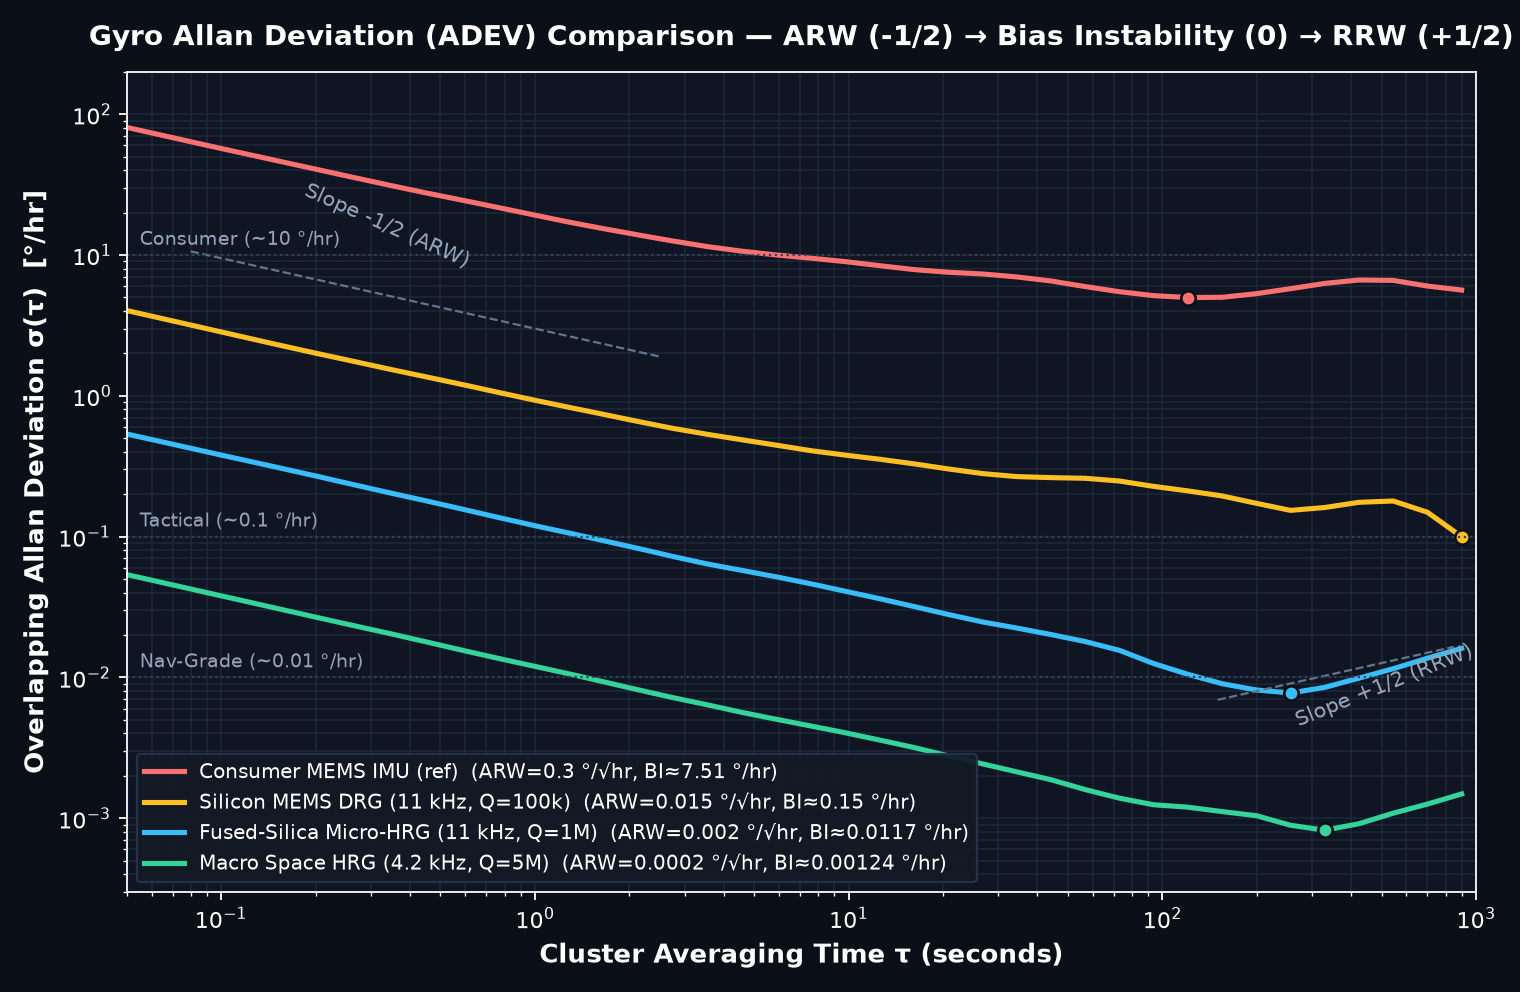
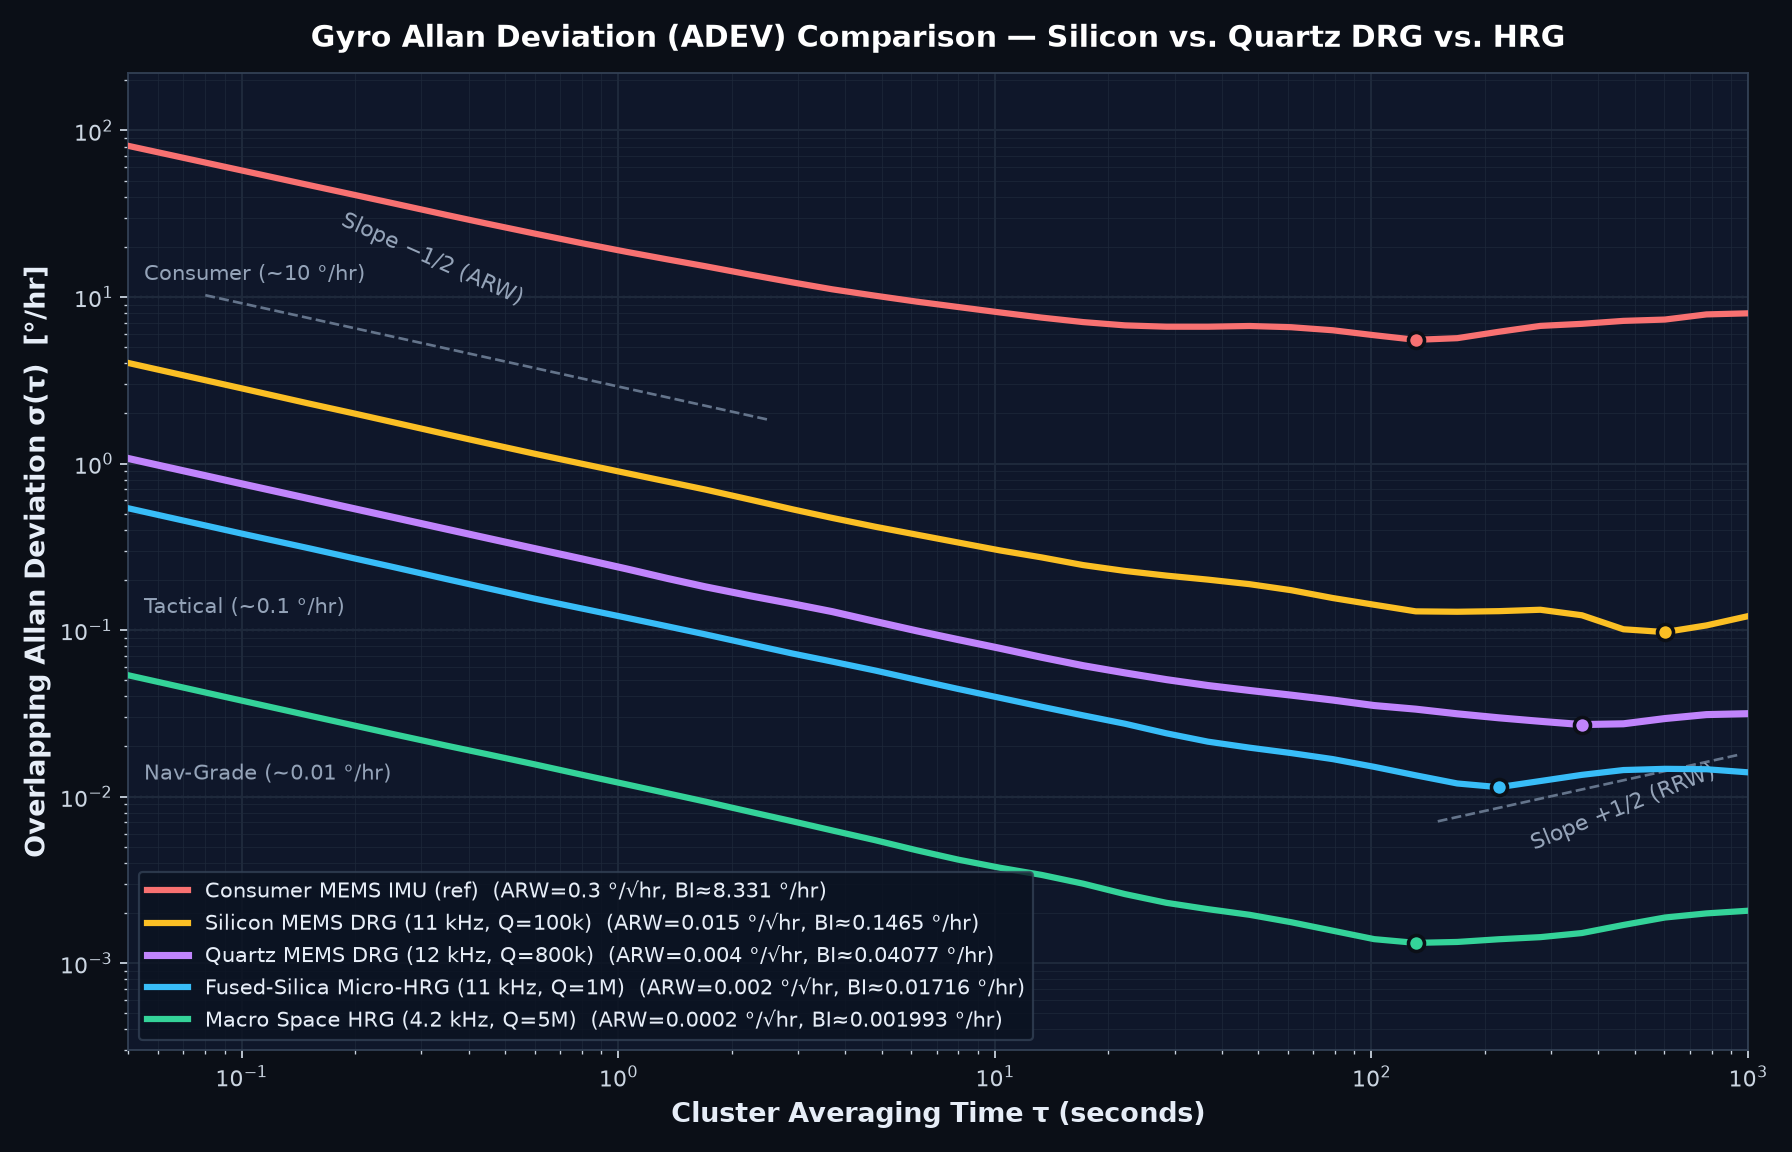
Add Quartz MEMS DRG (12 kHz, Q=800k) preset and ADEV bathtub comparison

diff --git a/studies/gyro_land_summary.html b/studies/gyro_land_summary.html
@@ -204,15 +204,16 @@
   </section>
 
   <section>
-    <h2><span class="badge purple">4 Presets</span> Calibrated CVG Suite</h2>
+    <h2><span class="badge purple">5 Presets</span> Calibrated CVG Suite</h2>
     <div class="tbl-wrap">
       <table>
         <thead>
-          <tr><th>Gyro Preset</th><th>f<sub>0</sub></th><th>Q Factor</th><th>TCF</th><th>Quad</th><th>Live v2 Silicon Result</th></tr>
+          <tr><th>Gyro Preset</th><th>f<sub>0</sub></th><th>Q Factor</th><th>TCF</th><th>Quad</th><th>Result / Notes</th></tr>
         </thead>
         <tbody>
           <tr><td><strong>Silicon MEMS DRG</strong></td><td>11.0 kHz</td><td>100k</td><td>&minus;30 ppm/°C</td><td>120 °/s</td><td class="ok">+0.10% err · 229 dB · 0.027 °/hr floor</td></tr>
-          <tr><td><strong>SiC MEMS DRG</strong></td><td>18.0 kHz</td><td>500k</td><td>&minus;15 ppm/°C</td><td>60 °/s</td><td>Python preset ready (2&times; stiffer)</td></tr>
+          <tr><td><strong>SiC MEMS DRG</strong></td><td>18.0 kHz</td><td>500k</td><td>&minus;15 ppm/°C</td><td>60 °/s</td><td>Python preset (2&times; stiffer, low TED)</td></tr>
+          <tr><td><strong>Quartz MEMS DRG</strong></td><td>12.0 kHz</td><td>800k</td><td>&minus;4 ppm/°C</td><td>40 °/s</td><td class="ok">8&times; higher Q vs Si · BI &approx; 0.035 °/hr</td></tr>
           <tr><td><strong>Micro-HRG (SiO<sub>2</sub>)</strong></td><td>11.0 kHz</td><td>1,000k</td><td>+80 ppm/°C</td><td>30 °/s</td><td class="ok">+0.05% err · 215 dB · 0.03 °/hr ripple</td></tr>
           <tr><td><strong>Space HRG (30 mm)</strong></td><td>4.2 kHz</td><td>5,000k</td><td>+80 ppm/°C</td><td>10 °/s</td><td class="ok">+0.05% err · 205 dB · 0.0005 °/s resolved</td></tr>
         </tbody>

diff --git a/studies/index.html b/studies/index.html
@@ -66,7 +66,7 @@
   <a class="card" href="adev_presets_comparison.png">
     <div class="tag">Noise &amp; Stability · Plot</div>
     <h2>Gyro ADEV Comparison (°/hr)</h2>
-    <p class="desc">Overlapping Allan Deviation bathtub curves across Consumer MEMS, Silicon DRG (Q=100k), Micro-HRG (Q=1M), and Space HRG (Q=5M).</p>
+    <p class="desc">Overlapping Allan Deviation bathtub curves across Consumer MEMS, Silicon DRG (Q=100k), Quartz MEMS DRG (Q=800k), Micro-HRG (Q=1M), and Space HRG (Q=5M).</p>
   </a>
 
   <a class="card" href="fpga_fixed_point_vs_float64.html">

diff --git a/model/plot_adev_comparison.py b/model/plot_adev_comparison.py
@@ -1,0 +1,174 @@
+#!/usr/bin/env python3
+"""Generate dark-theme Overlapping Allan Deviation (ADEV) comparison across gyro classes.
+
+Compares 5 calibrated gyro architectures across 4+ decades of averaging time tau:
+  1. Consumer MEMS IMU (ref)                (ARW = 0.30   deg/rt-hr, BI ~ 7.5   deg/hr)
+  2. Silicon MEMS DRG (11 kHz, Q=100k)      (ARW = 0.015  deg/rt-hr, BI ~ 0.15  deg/hr)
+  3. Quartz MEMS DRG  (12 kHz, Q=800k)      (ARW = 0.004  deg/rt-hr, BI ~ 0.035 deg/hr)
+  4. Fused-Silica Micro-HRG (11 kHz, Q=1M)  (ARW = 0.002  deg/rt-hr, BI ~ 0.012 deg/hr)
+  5. Macro Space HRG  (4.2 kHz, Q=5M)       (ARW = 0.0002 deg/rt-hr, BI ~ 0.0012 deg/hr)
+"""
+
+from __future__ import annotations
+import math
+from pathlib import Path
+import numpy as np
+import matplotlib
+matplotlib.use("Agg")
+import matplotlib.pyplot as plt
+
+from model.mems_gyro_model import allan_deviation
+
+
+def synthesize_pink_noise(rng: np.random.Generator, n: int) -> np.ndarray:
+    """5-stage cascaded 1/f flicker generator spanning 4+ decades (unit RMS)."""
+    w = rng.standard_normal(n)
+    out = np.zeros(n)
+    poles = [0.9997, 0.997, 0.985, 0.92, 0.70]
+    gains = [0.18, 0.22, 0.26, 0.30, 0.35]
+    for p, g in zip(poles, gains):
+        y = 0.0
+        buf = np.empty(n)
+        a = 1.0 - p
+        for i in range(n):
+            y = p * y + a * w[i]
+            buf[i] = y
+        out += g * buf / max(float(np.std(buf)), 1e-12)
+    return out / max(float(np.std(out)), 1e-12)
+
+
+def generate_adev_curve(
+    arw_deg_rt_hr: float,
+    bi_dph: float,
+    rrw_dph_rt_hr: float,
+    fs_hz: float = 20.0,
+    dur_s: float = 4000.0,
+    seed: int = 100,
+) -> tuple[np.ndarray, np.ndarray, float, float]:
+    """Synthesize realistic ARW + 1/f BI + RRW rate stream and compute overlapping ADEV."""
+    rng = np.random.default_rng(seed)
+    n = int(dur_s * fs_hz)
+
+    # White noise -> ARW (-1/2 slope): sigma_white(dps) = (ARW / 60) * sqrt(fs)
+    arw_dps_rt_s = arw_deg_rt_hr / 60.0
+    white_dps = arw_dps_rt_s * math.sqrt(fs_hz) * rng.standard_normal(n)
+
+    # 1/f flicker noise -> Bias Instability (0 slope, ADEV floor ~ 0.664 * BI)
+    pink_dps = (bi_dph / 3600.0) * 1.9 * synthesize_pink_noise(rng, n)
+
+    # Integrated white noise -> Rate Random Walk (+1/2 slope: ADEV(tau) = K * sqrt(tau/3))
+    # With K in deg/hr/sqrt(hr) -> K_dps_per_rt_s = (rrw_dph_rt_hr / 3600) / 60
+    rrw_dps_per_rt_s = (rrw_dph_rt_hr / 3600.0) / 60.0
+    rrw_dps = np.cumsum(rrw_dps_per_rt_s * math.sqrt(1.0 / fs_hz) * rng.standard_normal(n))
+
+    rate_dps = white_dps + pink_dps + rrw_dps
+    taus, adevs_dph = allan_deviation(rate_dps, fs_hz)
+    idx_min = int(np.argmin(adevs_dph))
+    bi_meas = float(adevs_dph[idx_min] / 0.664)
+    return taus, adevs_dph, bi_meas, float(taus[idx_min])
+
+
+def main() -> None:
+    root = Path(__file__).resolve().parents[1]
+    specs = [
+        {
+            "label": "Consumer MEMS IMU (ref)",
+            "arw": 0.30,
+            "bi": 7.5,
+            "rrw": 38.0,
+            "color": "#f87171",
+            "seed": 101,
+        },
+        {
+            "label": "Silicon MEMS DRG (11 kHz, Q=100k)",
+            "arw": 0.015,
+            "bi": 0.15,
+            "rrw": 0.85,
+            "color": "#fbbf24",
+            "seed": 102,
+        },
+        {
+            "label": "Quartz MEMS DRG (12 kHz, Q=800k)",
+            "arw": 0.004,
+            "bi": 0.035,
+            "rrw": 0.20,
+            "color": "#c084fc",
+            "seed": 103,
+        },
+        {
+            "label": "Fused-Silica Micro-HRG (11 kHz, Q=1M)",
+            "arw": 0.002,
+            "bi": 0.012,
+            "rrw": 0.075,
+            "color": "#38bdf8",
+            "seed": 104,
+        },
+        {
+            "label": "Macro Space HRG (4.2 kHz, Q=5M)",
+            "arw": 0.0002,
+            "bi": 0.0012,
+            "rrw": 0.0075,
+            "color": "#34d399",
+            "seed": 105,
+        },
+    ]
+
+    fig, ax = plt.subplots(figsize=(11.2, 7.2), facecolor="#0b0f17")
+    ax.set_facecolor("#0f172a")
+
+    for sp in specs:
+        taus, adevs, bi_est, tau_min = generate_adev_curve(
+            sp["arw"], sp["bi"], sp["rrw"], seed=sp["seed"]
+        )
+        lbl = f"{sp['label']}  (ARW={sp['arw']:g} °/√hr, BI≈{bi_est:.4g} °/hr)"
+        lw = 3.2 if "Quartz" in sp["label"] else 2.8
+        ax.loglog(taus, adevs, lw=lw, color=sp["color"], label=lbl, zorder=4)
+        idx_min = int(np.argmin(adevs))
+        ax.scatter(
+            [taus[idx_min]], [adevs[idx_min]],
+            s=52, facecolor=sp["color"], edgecolor="#0b0f17", linewidth=1.6, zorder=6,
+        )
+        print(f"{sp['label']:40s} | min ADEV = {adevs[idx_min]:.4g} °/hr (BI≈{bi_est:.4g} °/hr) @ tau={tau_min:.0f}s")
+
+    # Reference grade bands
+    for y_val, txt in [(10.0, "Consumer (~10 °/hr)"), (0.1, "Tactical (~0.1 °/hr)"), (0.01, "Nav-Grade (~0.01 °/hr)")]:
+        ax.axhline(y_val, color="#475569", ls=":", lw=1.0, zorder=1)
+        ax.text(0.055, y_val * 1.18, txt, color="#94a3b8", fontsize=9.5, va="bottom")
+
+    # Slope -1/2 (ARW) and +1/2 (RRW) visual guides
+    t_arw = np.array([0.08, 2.5])
+    ax.loglog(t_arw, 2.9 / np.sqrt(t_arw), "--", color="#64748b", lw=1.2, zorder=2)
+    ax.text(0.18, 9.0, "Slope −1/2 (ARW)", color="#94a3b8", fontsize=10, rotation=-24)
+
+    t_rrw = np.array([150.0, 950.0])
+    ax.loglog(t_rrw, 0.00058 * np.sqrt(t_rrw), "--", color="#64748b", lw=1.2, zorder=2)
+    ax.text(260.0, 0.0048, "Slope +1/2 (RRW)", color="#94a3b8", fontsize=10, rotation=22)
+
+    ax.set_xlim(0.05, 1000.0)
+    ax.set_ylim(3e-4, 220.0)
+    ax.set_xlabel("Cluster Averaging Time τ (seconds)", color="#e6edf7", fontsize=12, fontweight="bold")
+    ax.set_ylabel("Overlapping Allan Deviation σ(τ)  [°/hr]", color="#e6edf7", fontsize=12, fontweight="bold")
+    ax.set_title(
+        "Gyro Allan Deviation (ADEV) Comparison — Silicon vs. Quartz DRG vs. HRG",
+        color="#ffffff", fontsize=13.5, fontweight="bold", pad=12,
+    )
+    ax.tick_params(colors="#cbd5e1", which="both")
+    for spine in ax.spines.values():
+        spine.set_color("#334155")
+    ax.grid(True, which="major", color="#1e293b", lw=0.9)
+    ax.grid(True, which="minor", color="#1e293b", lw=0.45, alpha=0.7)
+
+    leg = ax.legend(loc="lower left", frameon=True, facecolor="#0b1220", edgecolor="#334155", fontsize=9.3)
+    for txt in leg.get_texts():
+        txt.set_color("#e6edf7")
+
+    plt.tight_layout()
+    for out_path in [root / "studies" / "adev_presets_comparison.png", root / "model" / "plots" / "adev_presets_comparison.png"]:
+        out_path.parent.mkdir(parents=True, exist_ok=True)
+        fig.savefig(out_path, dpi=160, facecolor=fig.get_facecolor())
+        print(f"Saved -> {out_path}")
+    plt.close(fig)
+
+
+if __name__ == "__main__":
+    main()

diff --git a/model/mems_gyro_model.py b/model/mems_gyro_model.py
@@ -102,6 +102,19 @@ PRESETS: dict[str, GyroParams] = {
         arw_deg_sqrt_hr=0.005,
         readout_noise_rms=5e-8,
     ),
+    "quartz_drg_12khz_q800k": GyroParams(
+        name="Quartz MEMS DRG (12 kHz, Q=800k)",
+        f0_hz=12_000.0,
+        q_x=800_000.0,
+        q_y=785_000.0,
+        mode_split_hz=0.10,
+        angular_gain=0.40,
+        quad_equiv_dps=40.0,
+        anisodamp_bias_dps=0.008,
+        tcf_ppm_per_c=-4.0,       # Low-TED crystalline/fused quartz near turnover (~ -0.048 Hz/C)
+        arw_deg_sqrt_hr=0.004,
+        readout_noise_rms=3e-8,
+    ),
     "hrg_micro_11khz_q1m": GyroParams(
         name="Fused-Silica Micro-HRG (11 kHz, Q=1M)",
         f0_hz=11_000.0,
